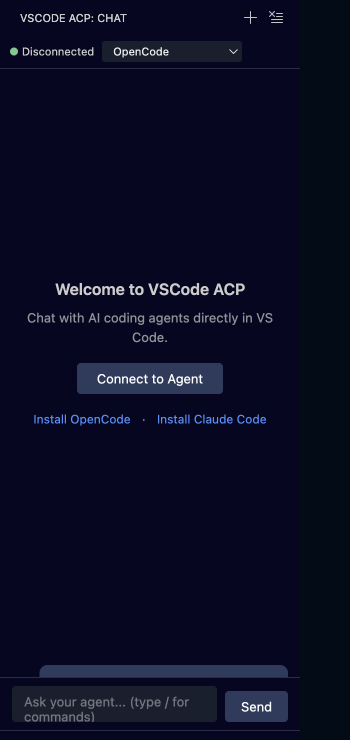
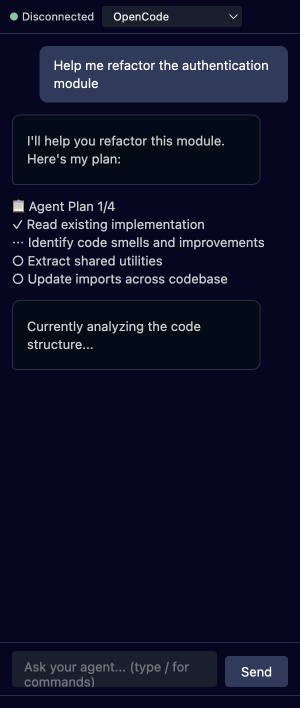
fix: screenshot tests now properly inject mock state into webview
- Fixed selector: use #welcome-view instead of .welcome
- Fixed frame detection: find frame with #welcome-view element
- Screenshots now correctly show ANSI output and plan display features

diff --git a/e2e/screenshots.spec.ts b/e2e/screenshots.spec.ts
@@ -1,51 +1,89 @@
-import { test, openACPView, getWebviewFrame } from "./fixtures";
+import { test, openACPView } from "./fixtures";
 import { join } from "path";
+import { Page, Frame } from "@playwright/test";
 
 const SCREENSHOTS_DIR = join(__dirname, "..", "screenshots");
 
-test.describe("Feature Screenshots", () => {
-  test("ANSI color output in tool calls", async ({ window }) => {
-    await openACPView(window);
-    const frame = getWebviewFrame(window);
+async function getWebviewContentFrame(window: Page): Promise<Frame> {
+  const allFrames: Frame[] = [];
 
-    await frame.locator("#connect-btn").waitFor({ timeout: 15000 });
+  function collectFrames(frameList: Frame[]) {
+    for (const f of frameList) {
+      allFrames.push(f);
+      collectFrames(f.childFrames());
+    }
+  }
+  collectFrames(window.frames());
 
-    const innerFrame = await frame.locator("body").elementHandle();
-    await innerFrame?.evaluate(() => {
-      const statusDot = document.querySelector(".status-dot");
-      const statusText = document.querySelector(".status-text");
-      const connectBtn = document.getElementById("connect-btn");
-      const welcomeView = document.querySelector(".welcome") as HTMLElement;
-      const messagesEl = document.getElementById("messages") as HTMLElement;
+  for (const frame of allFrames) {
+    try {
+      const hasWelcomeView = await frame.locator("#welcome-view").count();
+      if (hasWelcomeView > 0) {
+        console.log("Found webview content frame:", frame.url());
+        return frame;
+      }
+    } catch {
+      continue;
+    }
+  }
 
-      if (statusDot) statusDot.className = "status-dot connected";
-      if (statusText) statusText.textContent = "Connected";
-      if (connectBtn) (connectBtn as HTMLElement).style.display = "none";
-      if (welcomeView) welcomeView.style.display = "none";
-      if (messagesEl) messagesEl.style.display = "flex";
+  throw new Error("Webview content frame not found");
+}
 
-      const userMsg = document.createElement("div");
-      userMsg.className = "message user";
-      userMsg.innerHTML = "<p>Run the tests please</p>";
-      messagesEl?.appendChild(userMsg);
+async function injectMockState(frame: Frame, setupFn: string): Promise<void> {
+  const result = await frame.evaluate((fn) => {
+    try {
+      new Function(fn)();
+      const messages = document.getElementById("messages");
+      return {
+        success: true,
+        hasMessages: !!messages,
+        childCount: messages?.childNodes.length || 0,
+        welcomeHidden:
+          document.getElementById("welcome-view")?.style.display === "none",
+      };
+    } catch (e) {
+      return { success: false, error: String(e) };
+    }
+  }, setupFn);
+  console.log("Injection result:", result);
+}
 
-      const assistantMsg = document.createElement("div");
-      assistantMsg.className = "message assistant";
-      assistantMsg.innerHTML = `
-        <p>Running tests to check the codebase...</p>
-        <details class="tool" open>
-          <summary>
-            <span class="tool-status">✓</span>
-            <span class="tool-name">npm test</span>
-          </summary>
-          <div class="tool-content">
-            <div class="tool-section">
-              <div class="tool-label">Command</div>
-              <pre class="tool-output">npm test</pre>
-            </div>
-            <div class="tool-section">
-              <div class="tool-label">Output</div>
-              <pre class="tool-output">
+const ANSI_OUTPUT_SETUP = `
+  const statusDot = document.querySelector(".status-dot");
+  const statusText = document.querySelector(".status-text");
+  const connectBtn = document.getElementById("connect-btn");
+  const welcomeView = document.getElementById("welcome-view");
+  const messagesEl = document.getElementById("messages");
+
+  if (statusDot) statusDot.className = "status-dot connected";
+  if (statusText) statusText.textContent = "Connected";
+  if (connectBtn) connectBtn.style.display = "none";
+  if (welcomeView) welcomeView.style.display = "none";
+  if (messagesEl) messagesEl.style.display = "flex";
+
+  const userMsg = document.createElement("div");
+  userMsg.className = "message user";
+  userMsg.innerHTML = "<p>Run the tests please</p>";
+  messagesEl?.appendChild(userMsg);
+
+  const assistantMsg = document.createElement("div");
+  assistantMsg.className = "message assistant";
+  assistantMsg.innerHTML = \`
+    <p>Running tests to check the codebase...</p>
+    <details class="tool" open>
+      <summary>
+        <span class="tool-status">✓</span>
+        <span class="tool-name">npm test</span>
+      </summary>
+      <div class="tool-content">
+        <div class="tool-section">
+          <div class="tool-label">Command</div>
+          <pre class="tool-output">npm test</pre>
+        </div>
+        <div class="tool-section">
+          <div class="tool-label">Output</div>
+          <pre class="tool-output">
 <span class="ansi-bold"> PASS </span> <span class="ansi-dim">src/test/</span>webview.test.ts
   ansiToHtml
     <span class="ansi-green">✓</span> converts red foreground color <span class="ansi-dim">(2ms)</span>
@@ -62,106 +100,137 @@ test.describe("Feature Screenshots", () => {
 <span class="ansi-bold">Test Suites:</span> <span class="ansi-red">1 failed</span>, <span class="ansi-green">1 passed</span>, 2 total
 <span class="ansi-bold">Tests:</span>       <span class="ansi-red">1 failed</span>, <span class="ansi-green">6 passed</span>, 7 total
 <span class="ansi-dim">Time:</span>        <span class="ansi-cyan">3.456s</span>
-              </pre>
-            </div>
-          </div>
-        </details>
-        <p>Tests completed. Found 1 failing test in <code>client.test.ts</code>.</p>
-      `;
-      messagesEl?.appendChild(assistantMsg);
-    });
+          </pre>
+        </div>
+      </div>
+    </details>
+    <p>Tests completed. Found 1 failing test in <code>client.test.ts</code>.</p>
+  \`;
+  messagesEl?.appendChild(assistantMsg);
+`;
 
-    await window.waitForTimeout(500);
+const PLAN_DISPLAY_SETUP = `
+  const statusDot = document.querySelector(".status-dot");
+  const statusText = document.querySelector(".status-text");
+  const connectBtn = document.getElementById("connect-btn");
+  const welcomeView = document.getElementById("welcome-view");
+  const messagesEl = document.getElementById("messages");
 
-    const viewport = window.viewportSize()!;
-    await window.screenshot({
-      path: join(SCREENSHOTS_DIR, "ansi-output.png"),
-      clip: {
-        x: 48,
-        y: 35,
-        width: 400,
-        height: viewport.height - 35 - 25,
-      },
-    });
+  if (statusDot) statusDot.className = "status-dot connected";
+  if (statusText) statusText.textContent = "Connected";
+  if (connectBtn) connectBtn.style.display = "none";
+  if (welcomeView) welcomeView.style.display = "none";
+  if (messagesEl) messagesEl.style.display = "flex";
+
+  const userMsg = document.createElement("div");
+  userMsg.className = "message user";
+  userMsg.innerHTML = "<p>Help me refactor the authentication module</p>";
+  messagesEl?.appendChild(userMsg);
+
+  const assistantMsg = document.createElement("div");
+  assistantMsg.className = "message assistant";
+  assistantMsg.innerHTML = "<p>I'll help you refactor this module. Here's my plan:</p>";
+  messagesEl?.appendChild(assistantMsg);
+
+  const planEl = document.createElement("div");
+  planEl.className = "agent-plan";
+  planEl.innerHTML = \`
+    <div class="plan-header">
+      <span class="plan-icon">📋</span>
+      <span class="plan-title">Agent Plan</span>
+      <span class="plan-progress">1/4</span>
+    </div>
+    <div class="plan-entries">
+      <div class="plan-entry plan-entry-completed plan-priority-medium">
+        <span class="plan-status-icon">✓</span>
+        <span class="plan-content">Read existing implementation</span>
+      </div>
+      <div class="plan-entry plan-entry-in_progress plan-priority-high">
+        <span class="plan-status-icon">⋯</span>
+        <span class="plan-content">Identify code smells and improvements</span>
+      </div>
+      <div class="plan-entry plan-entry-pending plan-priority-medium">
+        <span class="plan-status-icon">○</span>
+        <span class="plan-content">Extract shared utilities</span>
+      </div>
+      <div class="plan-entry plan-entry-pending plan-priority-low">
+        <span class="plan-status-icon">○</span>
+        <span class="plan-content">Update imports across codebase</span>
+      </div>
+    </div>
+  \`;
+  messagesEl?.appendChild(planEl);
+
+  const contMsg = document.createElement("div");
+  contMsg.className = "message assistant";
+  contMsg.innerHTML = "<p>Currently analyzing the code structure...</p>";
+  messagesEl?.appendChild(contMsg);
+`;
+
+test.describe("Feature Screenshots", () => {
+  test("ANSI color output in tool calls", async ({ window }) => {
+    await openACPView(window);
+
+    await window.waitForTimeout(2000);
+    const frame = await getWebviewContentFrame(window);
+
+    await injectMockState(frame, ANSI_OUTPUT_SETUP);
+    await window.waitForTimeout(1000);
+
+    const sidebarLocator = window.locator(
+      ".split-view-view.visible .pane-body"
+    );
+    const sidebar = await sidebarLocator.first().boundingBox();
+
+    if (sidebar) {
+      console.log("Sidebar bounds:", sidebar);
+      await window.screenshot({
+        path: join(SCREENSHOTS_DIR, "ansi-output.png"),
+        clip: {
+          x: sidebar.x,
+          y: sidebar.y,
+          width: Math.min(sidebar.width, 450),
+          height: sidebar.height,
+        },
+      });
+    } else {
+      console.log("Falling back to full window screenshot");
+      await window.screenshot({
+        path: join(SCREENSHOTS_DIR, "ansi-output.png"),
+      });
+    }
   });
 
   test("Agent plan display", async ({ window }) => {
     await openACPView(window);
-    const frame = getWebviewFrame(window);
 
-    await frame.locator("#connect-btn").waitFor({ timeout: 15000 });
+    await window.waitForTimeout(2000);
+    const frame = await getWebviewContentFrame(window);
 
-    const innerFrame = await frame.locator("body").elementHandle();
-    await innerFrame?.evaluate(() => {
-      const statusDot = document.querySelector(".status-dot");
-      const statusText = document.querySelector(".status-text");
-      const connectBtn = document.getElementById("connect-btn");
-      const welcomeView = document.querySelector(".welcome") as HTMLElement;
-      const messagesEl = document.getElementById("messages") as HTMLElement;
+    await injectMockState(frame, PLAN_DISPLAY_SETUP);
+    await window.waitForTimeout(1000);
 
-      if (statusDot) statusDot.className = "status-dot connected";
-      if (statusText) statusText.textContent = "Connected";
-      if (connectBtn) (connectBtn as HTMLElement).style.display = "none";
-      if (welcomeView) welcomeView.style.display = "none";
-      if (messagesEl) messagesEl.style.display = "flex";
+    const sidebarLocator = window.locator(
+      ".split-view-view.visible .pane-body"
+    );
+    const sidebar = await sidebarLocator.first().boundingBox();
 
-      const userMsg = document.createElement("div");
-      userMsg.className = "message user";
-      userMsg.innerHTML = "<p>Help me refactor the authentication module</p>";
-      messagesEl?.appendChild(userMsg);
-
-      const assistantMsg = document.createElement("div");
-      assistantMsg.className = "message assistant";
-      assistantMsg.innerHTML =
-        "<p>I'll help you refactor this module. Here's my plan:</p>";
-      messagesEl?.appendChild(assistantMsg);
-
-      const planEl = document.createElement("div");
-      planEl.className = "agent-plan";
-      planEl.innerHTML = `
-        <div class="plan-header">
-          <span class="plan-icon">📋</span>
-          <span class="plan-title">Agent Plan</span>
-          <span class="plan-progress">1/4</span>
-        </div>
-        <div class="plan-entries">
-          <div class="plan-entry plan-entry-completed plan-priority-medium">
-            <span class="plan-status-icon">✓</span>
-            <span class="plan-content">Read existing implementation</span>
-          </div>
-          <div class="plan-entry plan-entry-in_progress plan-priority-high">
-            <span class="plan-status-icon">⋯</span>
-            <span class="plan-content">Identify code smells and improvements</span>
-          </div>
-          <div class="plan-entry plan-entry-pending plan-priority-medium">
-            <span class="plan-status-icon">○</span>
-            <span class="plan-content">Extract shared utilities</span>
-          </div>
-          <div class="plan-entry plan-entry-pending plan-priority-low">
-            <span class="plan-status-icon">○</span>
-            <span class="plan-content">Update imports across codebase</span>
-          </div>
-        </div>
-      `;
-      messagesEl?.appendChild(planEl);
-
-      const contMsg = document.createElement("div");
-      contMsg.className = "message assistant";
-      contMsg.innerHTML = "<p>Currently analyzing the code structure...</p>";
-      messagesEl?.appendChild(contMsg);
-    });
-
-    await window.waitForTimeout(500);
-
-    const viewport = window.viewportSize()!;
-    await window.screenshot({
-      path: join(SCREENSHOTS_DIR, "plan-display.png"),
-      clip: {
-        x: 48,
-        y: 35,
-        width: 350,
-        height: viewport.height - 35 - 25,
-      },
-    });
+    if (sidebar) {
+      console.log("Sidebar bounds:", sidebar);
+      await window.screenshot({
+        path: join(SCREENSHOTS_DIR, "plan-display.png"),
+        clip: {
+          x: sidebar.x,
+          y: sidebar.y,
+          width: Math.min(sidebar.width, 400),
+          height: sidebar.height,
+        },
+      });
+    } else {
+      console.log("Falling back to full window screenshot");
+      await window.screenshot({
+        path: join(SCREENSHOTS_DIR, "plan-display.png"),
+      });
+    }
   });
 });
